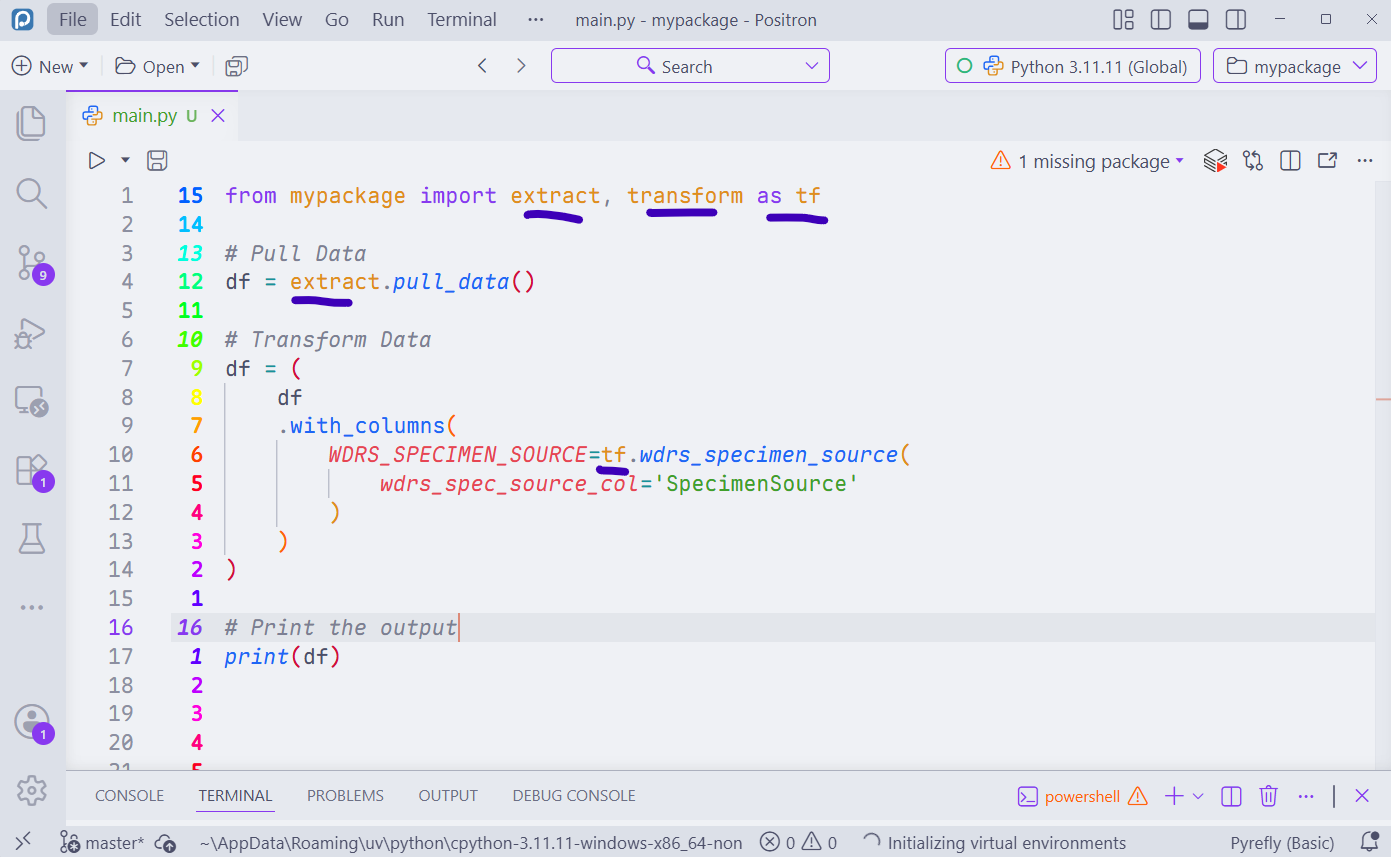
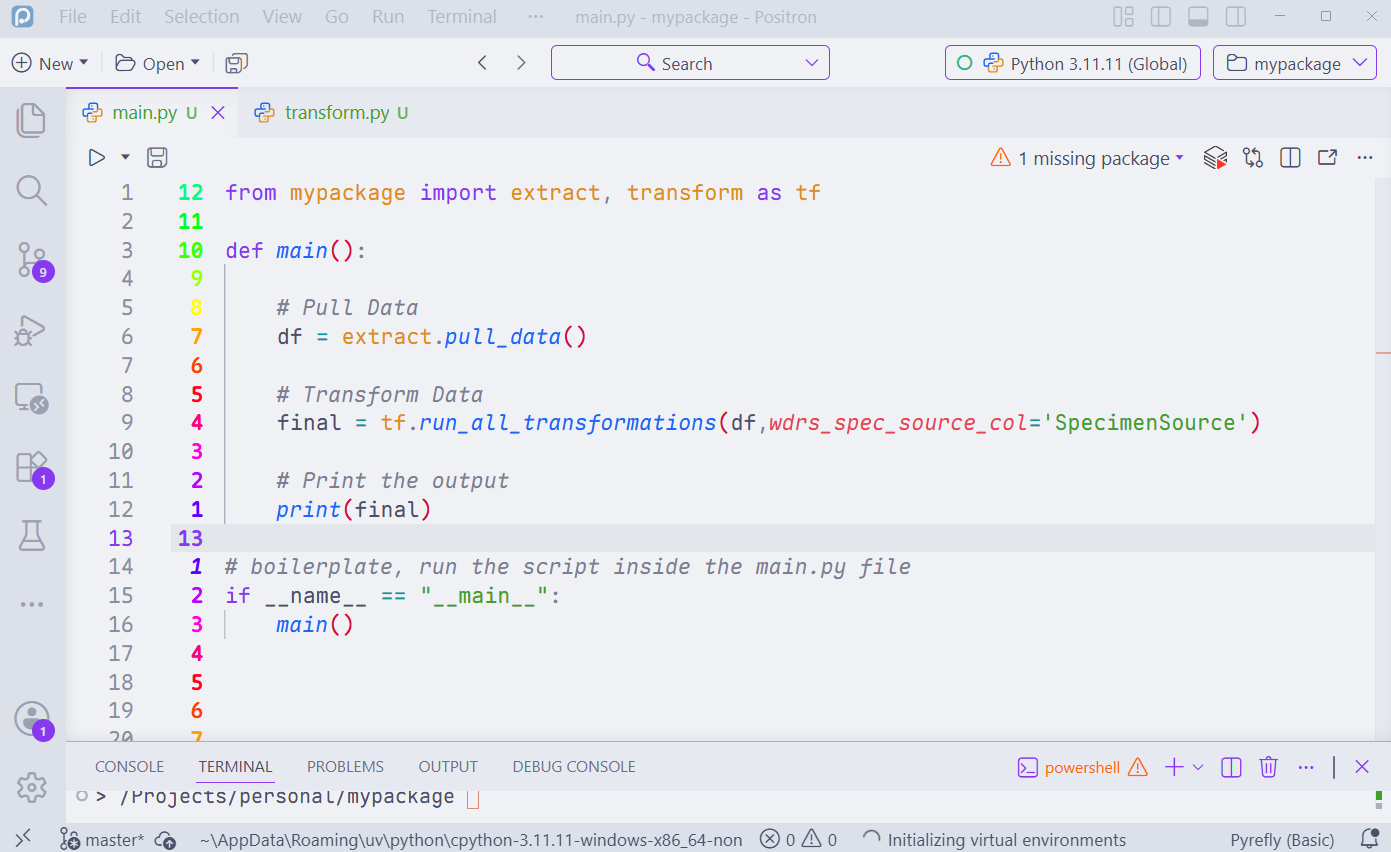
Built site for gh-pages

diff --git a/index.html b/index.html
@@ -203,7 +203,7 @@
 
 <section id="flusurv-net-subtype-data-linkage" class="slide level2 center">
 <h2>FluSurv-NET subtype data linkage</h2>
-<p><em>Python, packages, github, and modular codebases</em></p>
+<p><em>Python, packages, and modular codebases</em></p>
 <!-- _Using respnet data linkage as an example_ -->
 <!-- _Using python and GitHub for RESP-NET Subtype Linkage_ -->
 <p>Frank Aragona | Washington State Department of Health</p>
@@ -2927,7 +2927,7 @@
 <h2>uv - src</h2>
 <div class="quarto-figure quarto-figure-center">
 <figure>
-<p><a href="images/src.png" class="lightbox" data-gallery="quarto-lightbox-gallery-4"><img data-src="images/src.png" class="quarto-figure quarto-figure-center"></a></p>
+<p><a href="images/src2.png" class="lightbox" data-gallery="quarto-lightbox-gallery-4"><img data-src="images/src2.png" class="quarto-figure quarto-figure-center"></a></p>
 </figure>
 </div>
 </section>
@@ -3016,6 +3016,8 @@
 <li>what is <a href="https://www.youtube.com/watch?v=zgSQr0d5EVg&amp;t=38s">uv?</a></li>
 <li>publish a <a href="https://www.youtube.com/watch?v=rM1SqONoPXs">package with uv</a></li>
 </ul></li>
+<li><a href="https://docs.pola.rs/">polars</a></li>
+<li><a href="https://positron.posit.co/">positron</a></li>
 </ul>
 
 </section>

diff --git a/pythonstuff.html b/pythonstuff.html
@@ -203,7 +203,7 @@
 
 <section id="flusurv-net-subtype-data-linkage" class="slide level2 center">
 <h2>FluSurv-NET subtype data linkage</h2>
-<p><em>Python, packages, github, and modular codebases</em></p>
+<p><em>Python, packages, and modular codebases</em></p>
 <!-- _Using respnet data linkage as an example_ -->
 <!-- _Using python and GitHub for RESP-NET Subtype Linkage_ -->
 <p>Frank Aragona | Washington State Department of Health</p>
@@ -2927,7 +2927,7 @@
 <h2>uv - src</h2>
 <div class="quarto-figure quarto-figure-center">
 <figure>
-<p><a href="images/src.png" class="lightbox" data-gallery="quarto-lightbox-gallery-4"><img data-src="images/src.png" class="quarto-figure quarto-figure-center"></a></p>
+<p><a href="images/src2.png" class="lightbox" data-gallery="quarto-lightbox-gallery-4"><img data-src="images/src2.png" class="quarto-figure quarto-figure-center"></a></p>
 </figure>
 </div>
 </section>
@@ -3016,6 +3016,8 @@
 <li>what is <a href="https://www.youtube.com/watch?v=zgSQr0d5EVg&amp;t=38s">uv?</a></li>
 <li>publish a <a href="https://www.youtube.com/watch?v=rM1SqONoPXs">package with uv</a></li>
 </ul></li>
+<li><a href="https://docs.pola.rs/">polars</a></li>
+<li><a href="https://positron.posit.co/">positron</a></li>
 </ul>
 
 </section>
